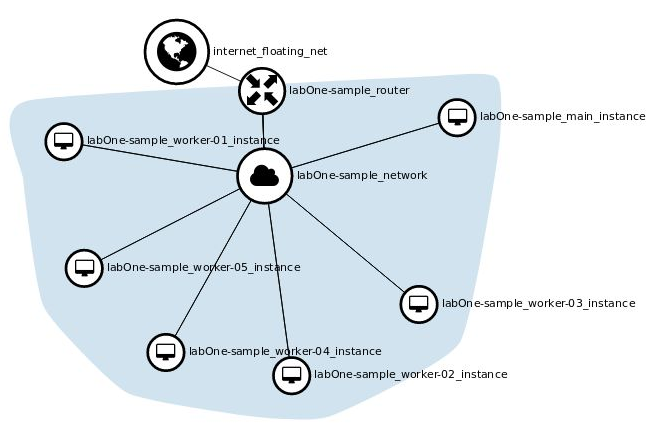
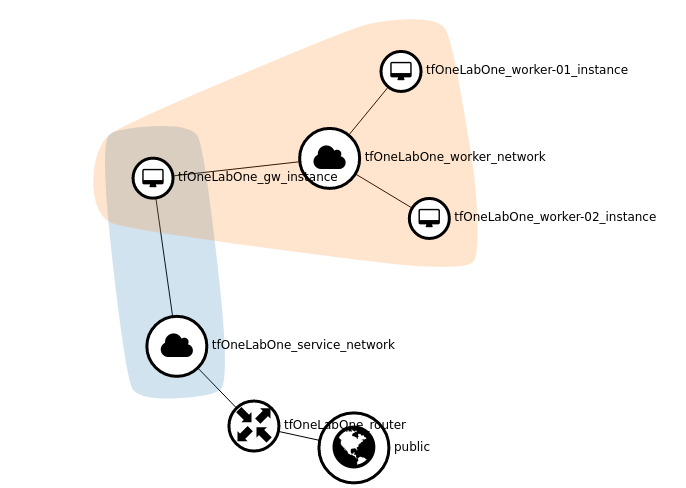
Dual network tested with centos7 guests

diff --git a/labOne/README.md b/labOne/README.md
@@ -1,5 +1,5 @@
 # Lab One
-Here's first of my terraform labs. It creates a basic single network infrastructure with one main instance ( The FIP-Addressable one ) and N worker instances ( set N to zero if you don't require any )
+This lab creates a basic dual network infrastructure with one gateway instance and N worker instances ( set N to zero if you don't require any )
 
 ## Lab requirements on your client station :
  - packages : git, terraform, openstack-cli (optionnal)
@@ -19,18 +19,16 @@ To launch terraform
  - terraform plan
  - terraform apply
 
-Optionnally, Edit 01-net.tf to select a network by other attributes than its name (network_id, description, status, external, matching_subnet_cidr, tenant_id, availability_zone_hints, transparent_vlan, tags)
-
-Optionnally, Edit 17-flavors.tf to select a flavor by other attributes than its name (flavor_id,min_ram,ram,min_disk,disk,vcpus,swap)
+ You may as well use multiple variable sets and state files to handle multiple labs on same or different clouds, see labCreate.sh as a sample.
 
 ## An example with six variables defined
-All values are free except publicNetWork which has to match your tenant's public network name ( network_id,description,status,external,matching_subnet_cidr,tenant_id,availability_zone_hints,transparent_vlan,tagsxx)
+All values are free except publicNetWork which has to match your tenant's public network name.
 
   - cloud = ...
   - flavorName = ...
   - pubKeyFile = ...
-  - publicNetwork = "internet_floating_net"
-  - infraName = "labOne-sample"
-  - nbWorkers = 5
+  - publicNetwork = "public"
+  - infraName = "tfOneLabOne"
+  - nbWorkers = 2
 
 ![labOne-sample](labOne-sample.png)
